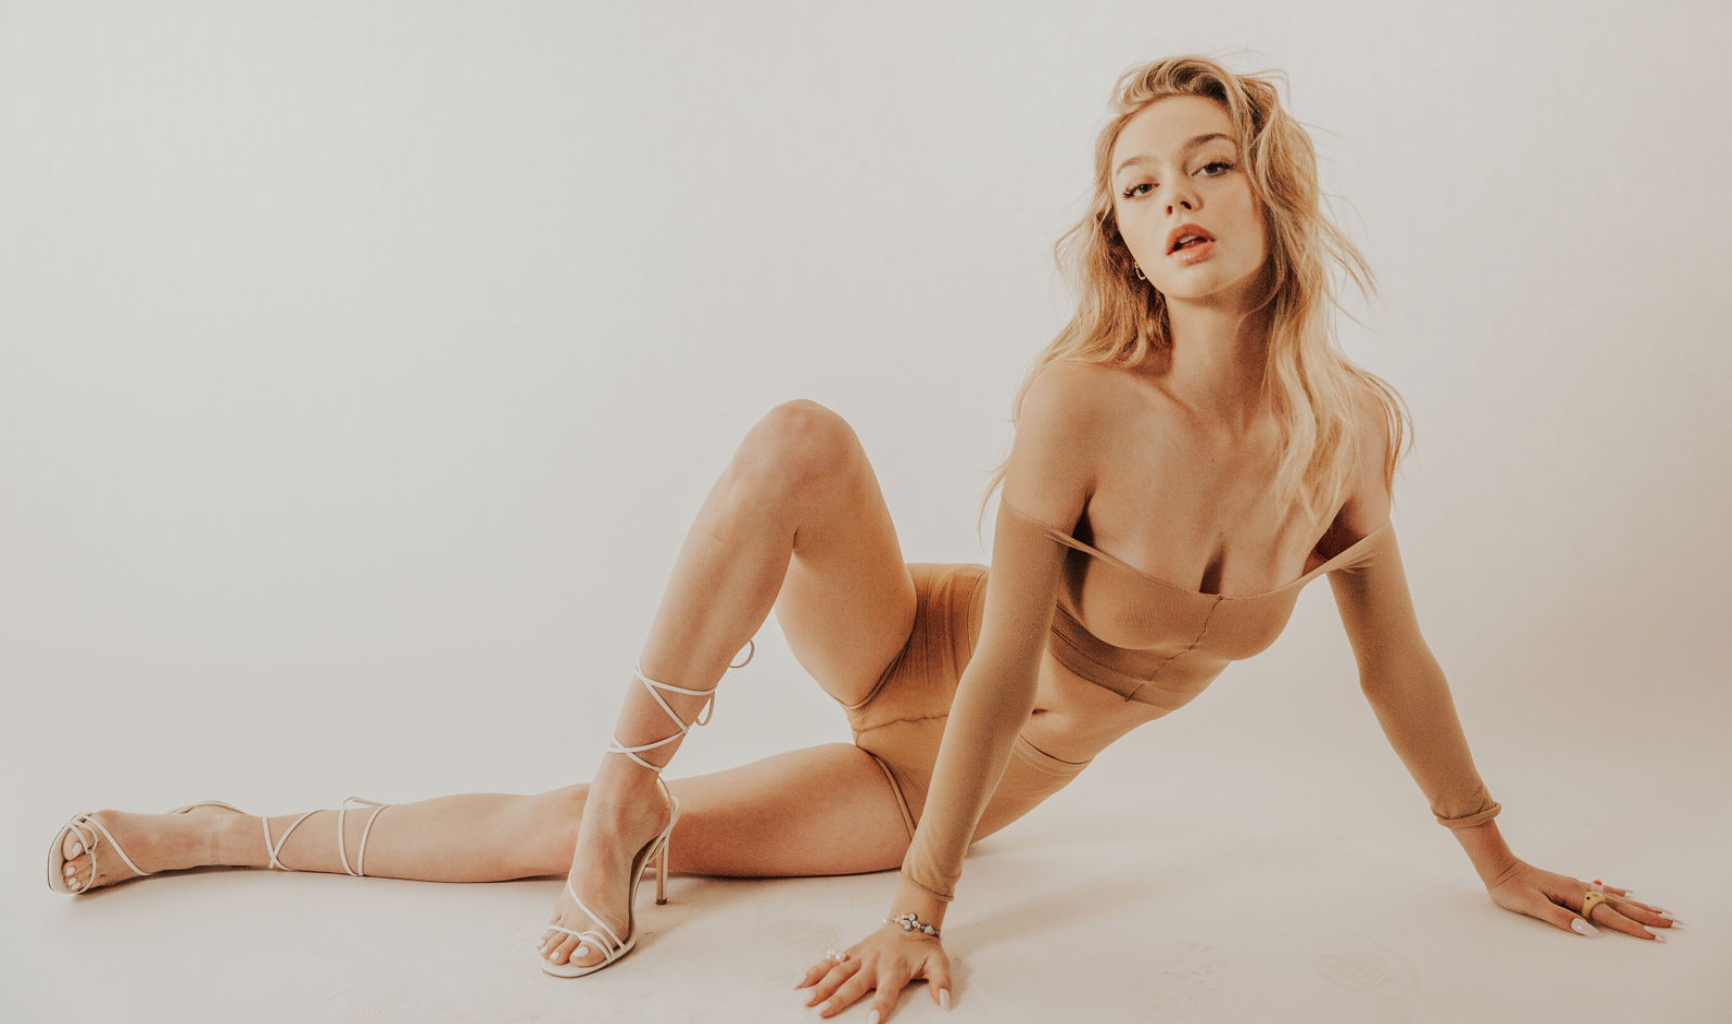
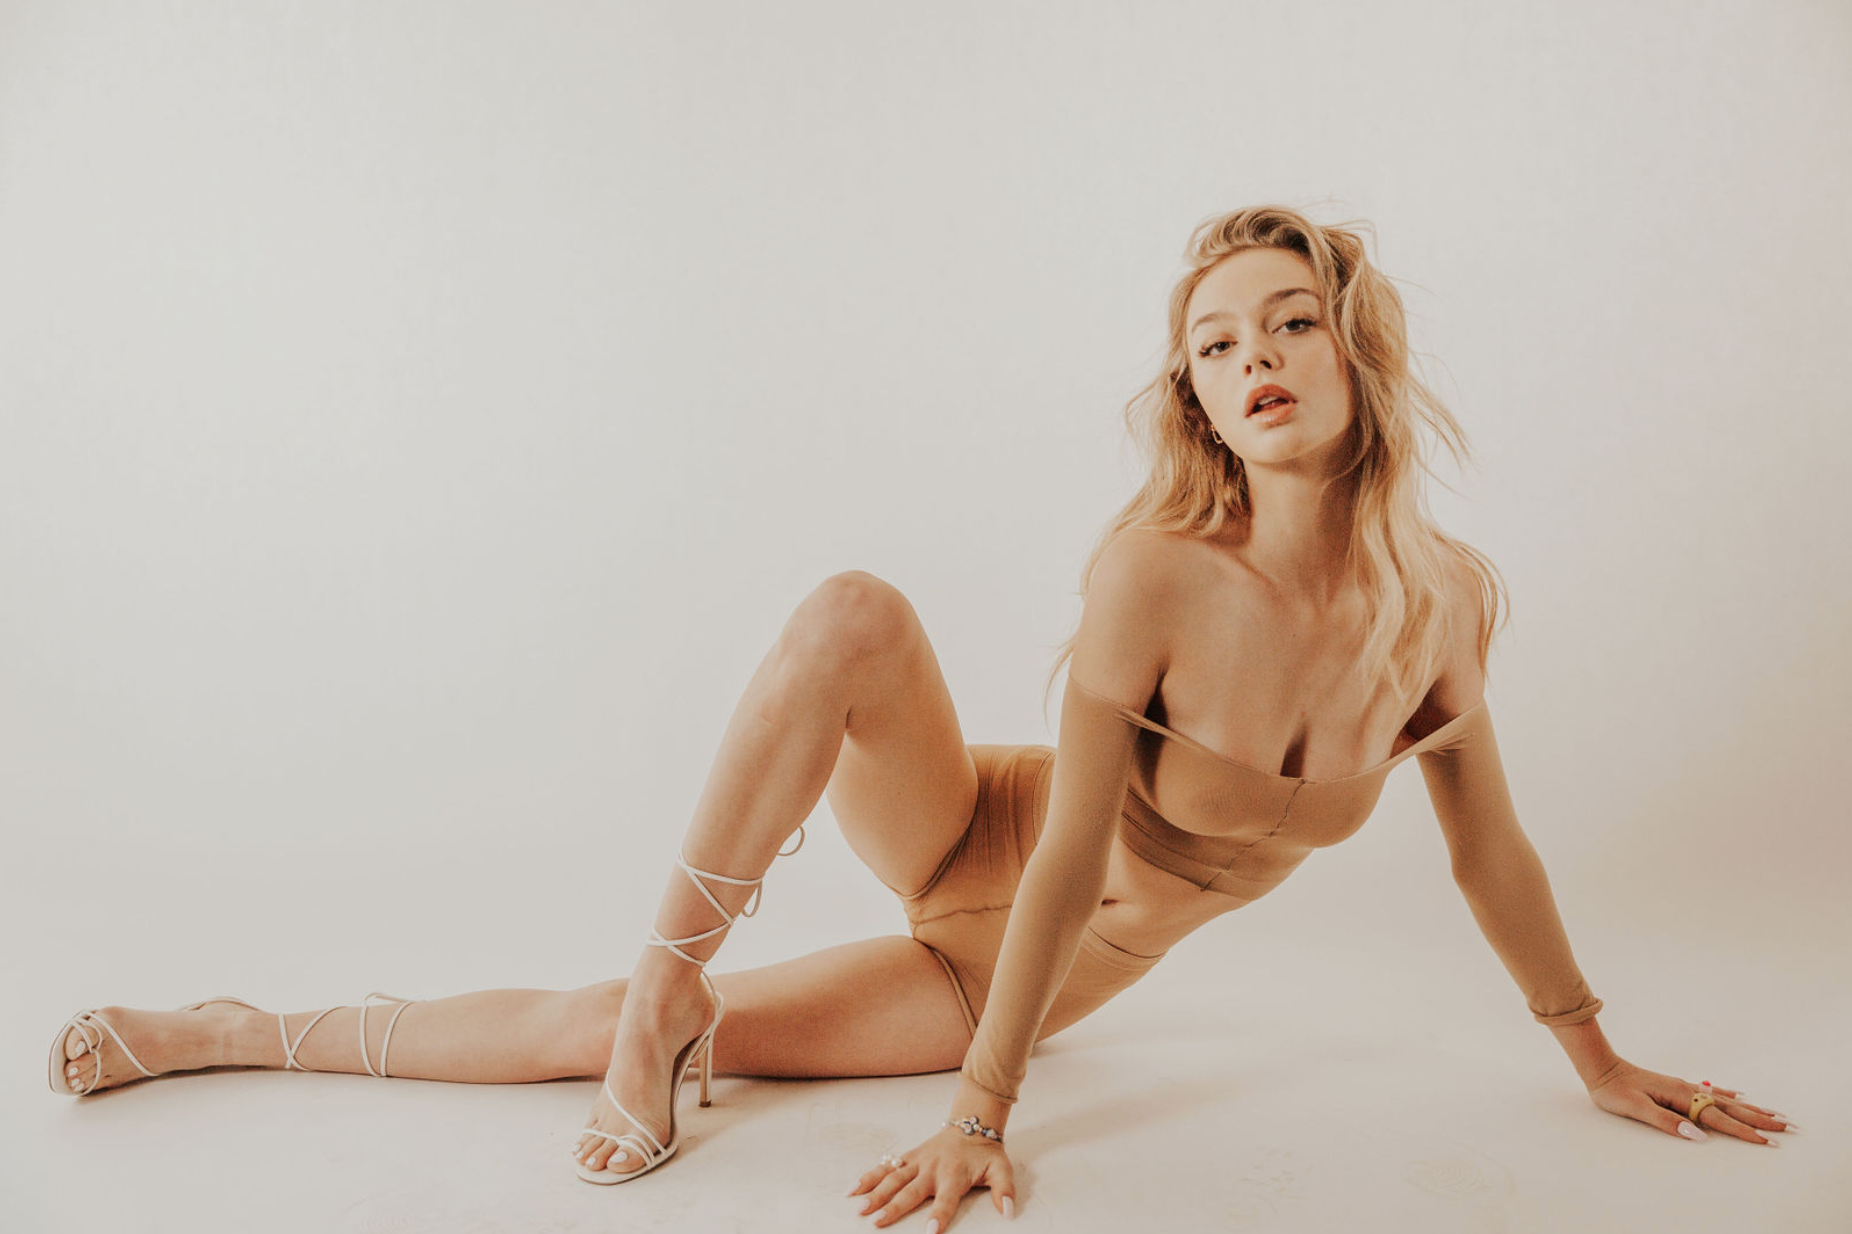
image resizing

Changed region(s): [[0.0312, 0.0312, 0.9665, 1.0]]

diff --git a/components/navbar.js b/components/navbar.js
@@ -101,7 +101,7 @@ export function NavBarMobile({ pages, shopLinks }) {
   const iconSize = "20px"
   return (
     <AnimatePresence exitBeforeEnter>
-      <Box position="sticky" zIndex="50" top="0" bgColor="white" >
+      <Box position="sticky" zIndex="50" top="0" bgColor="white" boxShadow="md">
         <Grid templateColumns={["1fr 100px 1fr"]}>
           <HStack paddingLeft="10px">
             <IconButton

diff --git a/components/horizontal-image.js b/components/horizontal-image.js
@@ -26,7 +26,7 @@ export default function HorizontalImage() {
                 <Image src={"/images/set.png"} objectFit="cover" layout="fill" />
               </AspectRatio>
             ),
-            md: <AspectRatio ratio={[16 / 9]}><Image
+            md: <AspectRatio ratio={[3 / 2]}><Image
             src={"/images/thin.png"}
             objectFit="cover"
             layout="fill"
